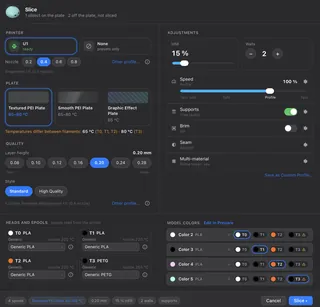
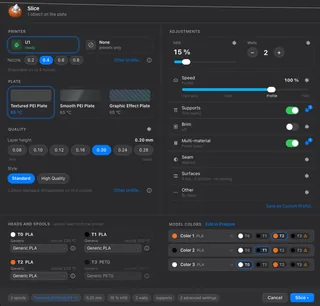
site: New Prepare and slicing screenshots, English head picker in What's new
prepare.webp and slicing.webp (and their thumbnails) follow the README's
new screenshots, with their sizes and the Prepare caption updated. The
0.15 prime tower feature now uses prepare.webp (prime-tower.webp removed),
and spool-colours.webp is the English head picker.

diff --git a/site/index.html b/site/index.html
@@ -100,10 +100,10 @@
             <figcaption><span class="g-cap" data-i18n="shots.files">Files: thumbnails of your 3MF files, duration, filament and plates</span></figcaption>
           </figure>
           <figure class="g-slide" role="group" aria-roledescription="slide" data-i18n-roledesc="gal.slide_role" aria-label="4 / 12" data-index="3" aria-hidden="true">
-            <button type="button" class="g-open" data-open="3" aria-label="Open fullscreen: Prepare: the U1 plate in 3D, with sliders and objects set aside" data-cap="shots.prepare" tabindex="-1">
-              <img src="assets/prepare.webp" alt="Prepare" data-i18n-alt="shots.prepare_alt" width="1400" height="912" loading="lazy">
+            <button type="button" class="g-open" data-open="3" aria-label="Open fullscreen: Prepare: the U1 plate in 3D, each color sent to its head, and the prime tower" data-cap="shots.prepare" tabindex="-1">
+              <img src="assets/prepare.webp" alt="Prepare" data-i18n-alt="shots.prepare_alt" width="1400" height="1103" loading="lazy">
             </button>
-            <figcaption><span class="g-cap" data-i18n="shots.prepare">Prepare: the U1 plate in 3D, with sliders and objects set aside</span></figcaption>
+            <figcaption><span class="g-cap" data-i18n="shots.prepare">Prepare: the U1 plate in 3D, each color sent to its head, and the prime tower</span></figcaption>
           </figure>
           <figure class="g-slide" role="group" aria-roledescription="slide" data-i18n-roledesc="gal.slide_role" aria-label="5 / 12" data-index="4" aria-hidden="true">
             <button type="button" class="g-open" data-open="4" aria-label="Open fullscreen: AI: Claude models a part, with a live 3D preview" data-cap="shots.ai-chat" tabindex="-1">
@@ -149,7 +149,7 @@
           </figure>
           <figure class="g-slide" role="group" aria-roledescription="slide" data-i18n-roledesc="gal.slide_role" aria-label="12 / 12" data-index="11" aria-hidden="true">
             <button type="button" class="g-open" data-open="11" aria-label="Open fullscreen: Slicing: plate, quality, heads and spools read from the printer" data-cap="shots.slicing" tabindex="-1">
-              <img src="assets/slicing.webp" alt="The slice sheet" data-i18n-alt="shots.slicing_alt" width="1200" height="1151" loading="lazy">
+              <img src="assets/slicing.webp" alt="The slice sheet" data-i18n-alt="shots.slicing_alt" width="935" height="895" loading="lazy">
             </button>
             <figcaption><span class="g-cap" data-i18n="shots.slicing">Slicing: plate, quality, heads and spools read from the printer</span></figcaption>
           </figure>
@@ -165,7 +165,7 @@
         <button type="button" class="g-thumb is-active" data-go="0" aria-label="Your printer in 3D: click a spool, a head, the bed or the light to control it" data-cap="shots.printer" aria-current="true"><img src="assets/thumbs/printer.webp" alt="" width="160" height="94" loading="lazy"></button>
         <button type="button" class="g-thumb" data-go="1" aria-label="Control: move, heat, load and unload each head, fans and light, without G-code" data-cap="shots.control"><img src="assets/thumbs/control.webp" alt="" width="160" height="94" loading="lazy"></button>
         <button type="button" class="g-thumb" data-go="2" aria-label="Files: thumbnails of your 3MF files, duration, filament and plates" data-cap="shots.files"><img src="assets/thumbs/files.webp" alt="" width="160" height="104" loading="lazy"></button>
-        <button type="button" class="g-thumb" data-go="3" aria-label="Prepare: the U1 plate in 3D, with sliders and objects set aside" data-cap="shots.prepare"><img src="assets/thumbs/prepare.webp" alt="" width="160" height="104" loading="lazy"></button>
+        <button type="button" class="g-thumb" data-go="3" aria-label="Prepare: the U1 plate in 3D, each color sent to its head, and the prime tower" data-cap="shots.prepare"><img src="assets/thumbs/prepare.webp" alt="" width="160" height="126" loading="lazy"></button>
         <button type="button" class="g-thumb" data-go="4" aria-label="AI: Claude models a part, with a live 3D preview" data-cap="shots.ai-chat"><img src="assets/thumbs/ai-chat.webp" alt="" width="160" height="104" loading="lazy"></button>
         <button type="button" class="g-thumb" data-go="5" aria-label="Camera: the printer&#x27;s camera, live" data-cap="shots.printer-camera"><img src="assets/thumbs/printer-camera.webp" alt="" width="160" height="94" loading="lazy"></button>
         <button type="button" class="g-thumb" data-go="6" aria-label="Prints: progress, temperatures, pause and cancel" data-cap="shots.print-job"><img src="assets/thumbs/print-job.webp" alt="" width="160" height="94" loading="lazy"></button>
@@ -173,7 +173,7 @@
         <button type="button" class="g-thumb" data-go="8" aria-label="Explore home: Space, Store, Wiki, Forum, Account, libraries and Store picks" data-cap="shots.library"><img src="assets/thumbs/library.webp" alt="" width="160" height="104" loading="lazy"></button>
         <button type="button" class="g-thumb" data-go="9" aria-label="Care &amp; Tuning: maintenance tasks, the heads&#x27; counters, the bed&#x27;s leveling" data-cap="shots.maintenance"><img src="assets/thumbs/maintenance.webp" alt="" width="160" height="104" loading="lazy"></button>
         <button type="button" class="g-thumb" data-go="10" aria-label="Display: light or dark, ten themes and the accent color" data-cap="shots.display"><img src="assets/thumbs/display.webp" alt="" width="160" height="104" loading="lazy"></button>
-        <button type="button" class="g-thumb" data-go="11" aria-label="Slicing: plate, quality, heads and spools read from the printer" data-cap="shots.slicing"><img src="assets/thumbs/slicing.webp" alt="" width="160" height="154" loading="lazy"></button>
+        <button type="button" class="g-thumb" data-go="11" aria-label="Slicing: plate, quality, heads and spools read from the printer" data-cap="shots.slicing"><img src="assets/thumbs/slicing.webp" alt="" width="160" height="153" loading="lazy"></button>
           <span class="g-ind" aria-hidden="true"></span>
         </div>
       </section>

diff --git a/site/i18n.js b/site/i18n.js
@@ -39,7 +39,7 @@ const STRINGS = {
     "gal.close": "Close",
     "shots.files": "Files: thumbnails of your 3MF files, duration, filament and plates",
     "shots.files_alt": "Snap Studio — your 3MF files at a glance",
-    "shots.prepare": "Prepare: the U1 plate in 3D, with sliders and objects set aside",
+    "shots.prepare": "Prepare: the U1 plate in 3D, each color sent to its head, and the prime tower",
     "shots.prepare_alt": "Prepare",
     "shots.ai-chat": "AI: Claude models a part, with a live 3D preview",
     "shots.ai-chat_alt": "An AI conversation",
@@ -139,7 +139,7 @@ const STRINGS = {
     "gal.close": "Fermer",
     "shots.files": "Fichiers : miniatures de vos 3MF, durée, filament et plateaux",
     "shots.files_alt": "Snap Studio — vos fichiers 3MF en un coup d'œil",
-    "shots.prepare": "Préparer : le plateau de la U1 en 3D, avec curseurs et objets mis de côté",
+    "shots.prepare": "Préparer : le plateau de la U1 en 3D, chaque couleur envoyée à sa tête, et la tour d'amorçage",
     "shots.prepare_alt": "Préparer",
     "shots.ai-chat": "IA : Claude modélise une pièce, avec un aperçu 3D en direct",
     "shots.ai-chat_alt": "Une conversation IA",
